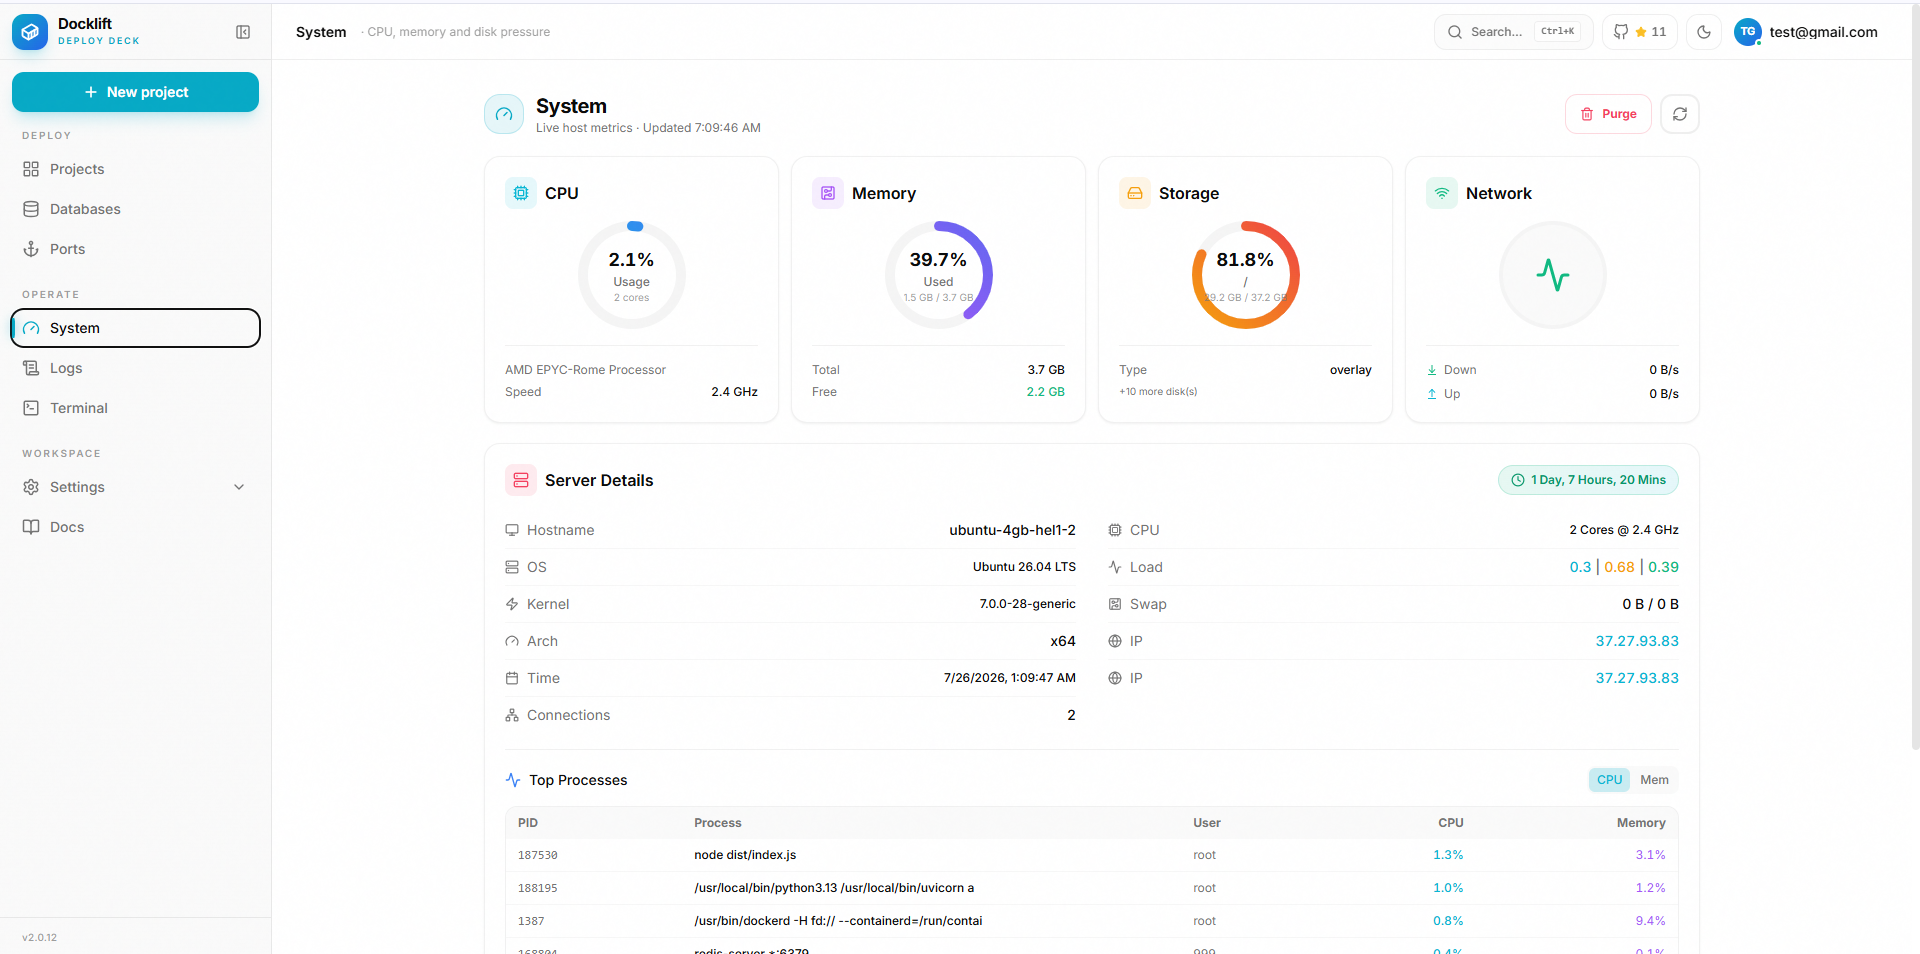
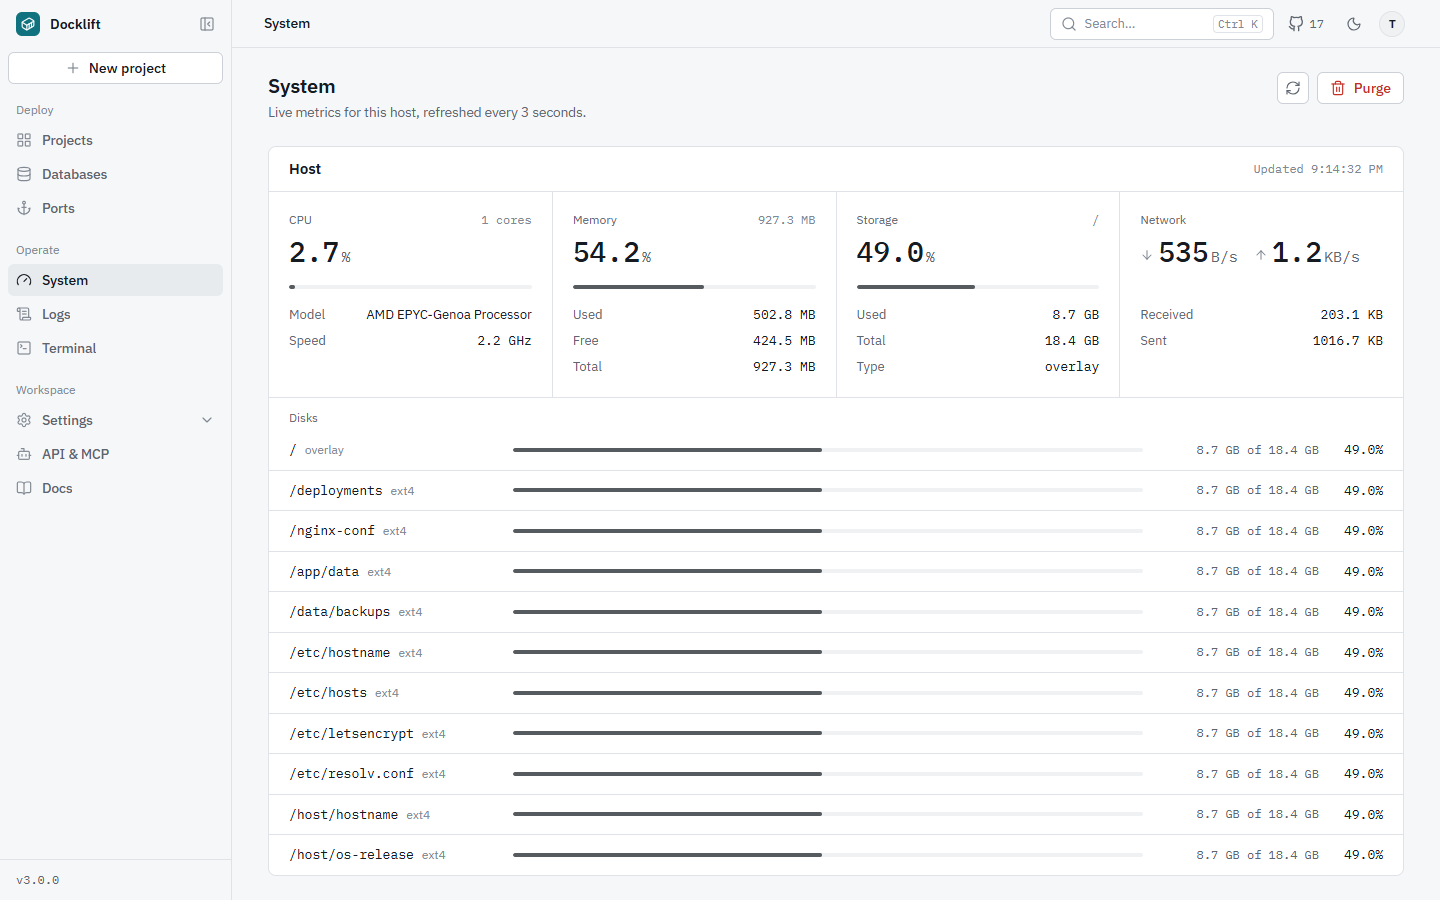
docs(README): replace screenshots with the redesigned dashboard

diff --git a/README.md b/README.md
@@ -38,13 +38,13 @@ Docklift itself is three containers:
 | `docklift-nginx-proxy` | nginx on ports `80` and `443` for your app domains and the optional panel domain. |
 | `docklift-certbot` | Requests and renews Let's Encrypt certificates (HTTP-01). |
 
-![Docklift Dashboard](screenshots/project.png)
+![Docklift Dashboard](screenshots/projects.png)
 
 <details>
 <summary>More screenshots</summary>
 
 Project detail:
-![Project detail](screenshots/inside%20projects.png)
+![Project detail](screenshots/project-detail.png)
 
 Live logs of the platform containers:
 ![Logs](screenshots/logs.png)
